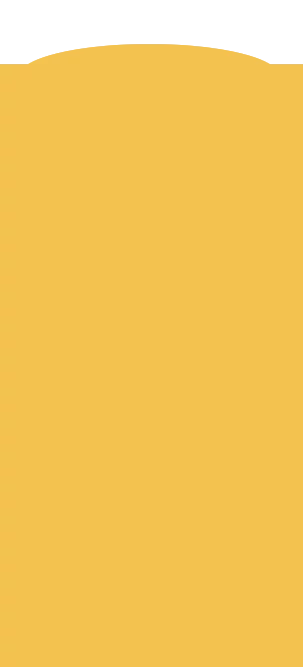
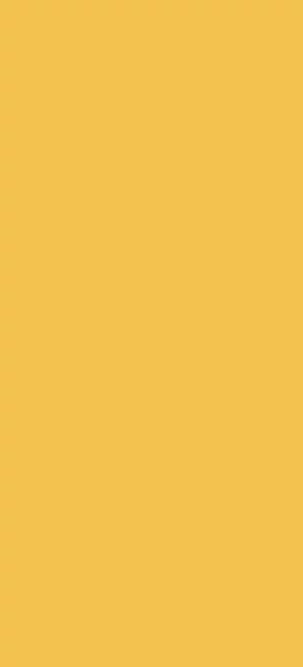
Changed color scheme

Changed region(s): [[0.0, 0.0, 1.0, 0.1199]]

diff --git a/index.html b/index.html
@@ -29,9 +29,19 @@
 			margin: 0;
 			width: 100%;
 			font-display: swap;
+			background-color: #FBFAFE;
+			color: #181909;
+
+		}
+		
+		.table-cell {
+			background-color: rgb(254, 254, 254, 1);
+			border-radius: 25px;
+			border: 1px solid;
 		}
 
 		.fixed-top {
+			background-color: rgb(254, 254, 254);
 			position: fixed;
 			z-index: 999;
 			width: 100%;
@@ -39,8 +49,8 @@
 			display: flex;
 			margin: 0;
 			border-bottom-style: solid;
-			border-width: 2px;
-			border-bottom-color: White;
+			border-width: 1px;
+			border-bottom-color: black;
 	     }
 
 		.description-paragraph {
@@ -71,6 +81,8 @@
 			font-size: .75em; 
 			border-radius: 9px; 
 			border: 2px solid;
+			background-color: rgb(255, 255, 255);
+			color: black;
 		}
 
 		.button1:hover {
@@ -95,6 +107,7 @@
 			list-style: none;
 			justify-content: center;
 			align-items: center;
+			background-color: white;
 		}
 
 		.menu-item {
@@ -139,11 +152,10 @@
 			id='pexels-marcus-aurelius-6787953.webp';
 			alt='Older couple using laptop computer happily. Also using touchpad.';
 			padding-top: 1em;
-			width: 70%; 
+			width: 85%; 
 			height: auto;
 			margin-left: auto; 
 			margin-right: auto; 
-			display: block;
 		}
 
 		.img2 {
@@ -151,11 +163,10 @@
 			id='pexels-olia-danilevich-4974914.webp';
 			alt='Younger gentlemen working multiple computers monitors laptops configuration';
 			padding-top: 1em;
-			width: 70%; 
+			width: 85%; 
 			height: auto;
 			margin-left: auto; 
 			margin-right: auto; 
-			display: block;
 		}
 
 		.img3 {
@@ -163,11 +174,10 @@
 			id='pexels-jopwell-2422293.webp';
 			alt='Laptop computer coding studying javascript on screen learning tutoring';
 			padding-top: 1em;
-			width: 70%; 
+			width: 85%; 
 			height: auto;
 			margin-left: auto; 
 			margin-right: auto; 
-			display: block;
 		}
 
 		.img4 {
@@ -175,11 +185,10 @@
 			id='pexels-luis-gomes-546819.webp';
 			alt='Diverse team working on networking';
 			padding-top: 1em;
-			width: 70%; 
+			width: 85%; 
 			height: auto;
 			margin-left: auto; 
 			margin-right: auto; 
-			display: block;
 		}
 
 		/* Mobile */
@@ -198,7 +207,6 @@
 			}
 
 			.table-cell {
-				background-color: #f3c24e;
 				width: 100vw;
 				padding-bottom: 3em;
 			}
@@ -267,13 +275,13 @@
 			}
 
 			.table-cell {
-				background-color: #f3c24e;
 				width: 90%;
 			}
 
 			.table-row {
 				display: grid;
 				grid-template-columns: repeat(auto-fit, minmax(10vw, 3fr));
+				margin-left: 3vw;
 			}
 
 			.hamburger {
@@ -432,25 +440,21 @@
 				</div>
 			</div>
 		</div>
-	<br />
-	<div style="background-image: url('about_background.webp'); background-repeat: repeat;">
-		<div style='text-align: center; justify-content: center; align-items: center; width: 100%; display: block; margin-left: auto; margin-right: auto;'>
-		<h1 id='about' style='text-align: center;'>
-			<b>
-				About
-			</b>
-		</h1>
-		<div style='width: 70%; text-align: left; justify-content: center; display: inline-flex;'>
-			<div style='margin-left: 2em; margin-right: 2em;'>
-				We have been repairing computers for over 20 years. Our commitment to excellence ensures that you will receive the utmost quality in service. We will use our expertise to get your systems running like they were brand new again!
-			</div>
-		</div>
-		</div>
-		<div style='background-color: #F3C24E;'>
-			<div style='height: 4em;'></div>
-			<div style='padding-bottom: 2em; padding-top: 2em; text-align: center; width: 100%; font-size: .5em;' id='is_mobile'></div>
+	<div style='height: 10vh'></div>
+	<div style='text-align: center; justify-content: center; align-items: center; width: 100%; display: block; margin-left: auto; margin-right: auto;'>
+	<h1 id='about' style='text-align: center;'>
+		<b>
+			About
+		</b>
+	</h1>
+	<div style='width: 70%; text-align: left; justify-content: center; display: inline-flex;'>
+		<div style='margin-left: 2em; margin-right: 2em;'>
+			We have been repairing computers for over 20 years. Our commitment to excellence ensures that you will receive the utmost quality in service. We will use our expertise to get your systems running like they were brand new again!
 		</div>
 	</div>
+	</div>
+	<div style='height: 4em;'></div>
+	<div style='padding-bottom: 2em; padding-top: 2em; text-align: center; width: 100%; font-size: .5em;' id='is_mobile'></div>
 <script>
 ////////////////////////////////////////////////////////////////////////////////////
 
@@ -458,7 +462,8 @@
 var top_bg_color = "#ecc260";
 var top_fg_color = "#181909";
 
-var bg_color = "#ecc260";
+//var bg_color = "#ecc260";
+var bg_color = "#DFDFDF";
 var fg_color = "#181909";
 
 var g_listener_set = 0;
@@ -467,57 +472,13 @@ window.onresize = () => {
 	page_config();
 }
 
-function set_colors() {
-	const fixed_top = document.getElementById('fixed-top');
-	if (!fixed_top) {
-		console.log("Could not find fixed-top element");
-		return 0;
-	}
-	fixed_top.style.backgroundColor = top_bg_color;
-	fixed_top.style.color = top_fg_color;
-
-	const body = document.getElementById('body');
-	if (!body) {
-		console.log("Could not find body element");
-		return 0;
-	}
-	body.style.backgroundColor = bg_color;
-	body.style.color = fg_color;
-
-	const button1 = document.getElementById('button1');
-	if (!button1) {
-		console.log("Could not find button1 element");
-		return 0;
-	}
-	button1.style.backgroundColor = top_bg_color;
-	button1.style.color = top_fg_color;
-	if (!g_listener_set) {
-		button1.addEventListener('mouseenter', () => { 
-			button1.style.backgroundColor = '#000000';
-			button1.style.color = '#FFFFFF';
-		});
-		button1.addEventListener('mouseleave', () => { 
-			button1.style.backgroundColor = top_bg_color;
-			button1.style.color = top_fg_color;
-		});
-	}
-	menu.style.backgroundColor = top_bg_color;
-	menu.style.color = top_fg_color;
-	return 1;
-}
-
 function init() {
 	menuItems.forEach( 
 		function(menuItem) { 
 			menuItem.addEventListener("click", toggle_menu);
 	})
-	if (!g_listener_set) {
+	if (!g_listener_set)
 		hamburger.addEventListener("click", toggle_menu);
-		if (set_colors() != 1) {
-			console.log("set_colors failed");
-			return 0;
-		}
-	}
 	return page_config();
 }
 
@@ -540,7 +501,7 @@ function is_mobile() {
 	return 0;
 }
 
-const closeIcon= document.querySelector(".closeIcon");
+const closeIcon = document.querySelector(".closeIcon");
 const menuIcon = document.querySelector(".menuIcon");
 const menu = document.querySelector(".menu");
 const menuItems = document.querySelectorAll(".menu-item");
